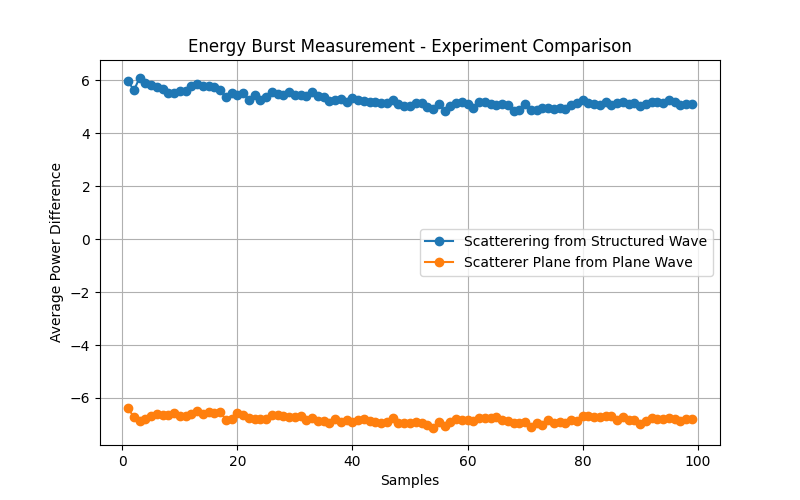
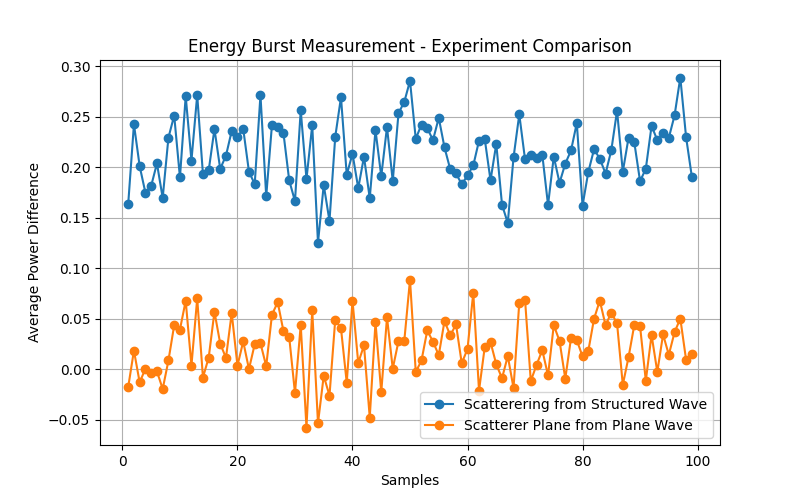
new images

diff --git a/GUI/config.py b/GUI/config.py
@@ -28,8 +28,8 @@ PHI_RANGE = np.linspace(0, 360, num_phi, endpoint=False)
 #PLUTO config
 BASE_BAND = 100e3
 SAMP_RATE = 5e6  # Hz
-TX_GAIN = -2 #dBm
-RX_GAIN =15 #adjust as needed
+TX_GAIN = -5 #dBm
+RX_GAIN =10 #adjust as needed
 #4 ms to fill buffer
 BUFFER_SIZE = 2048 
 NUM_AVG = 4
